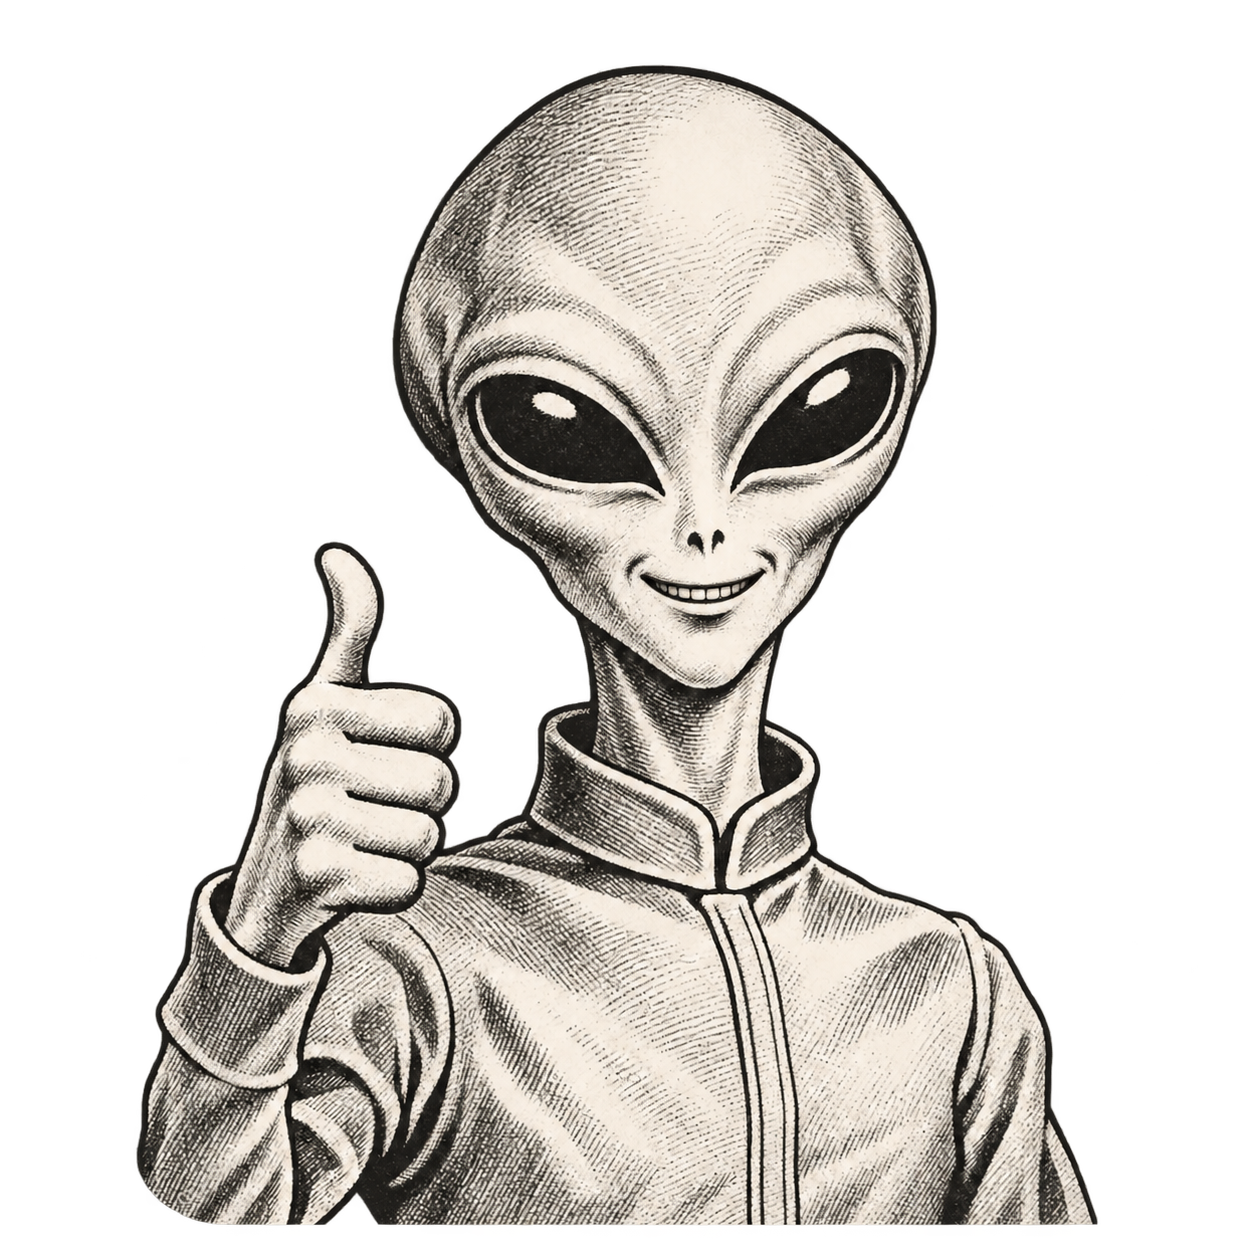
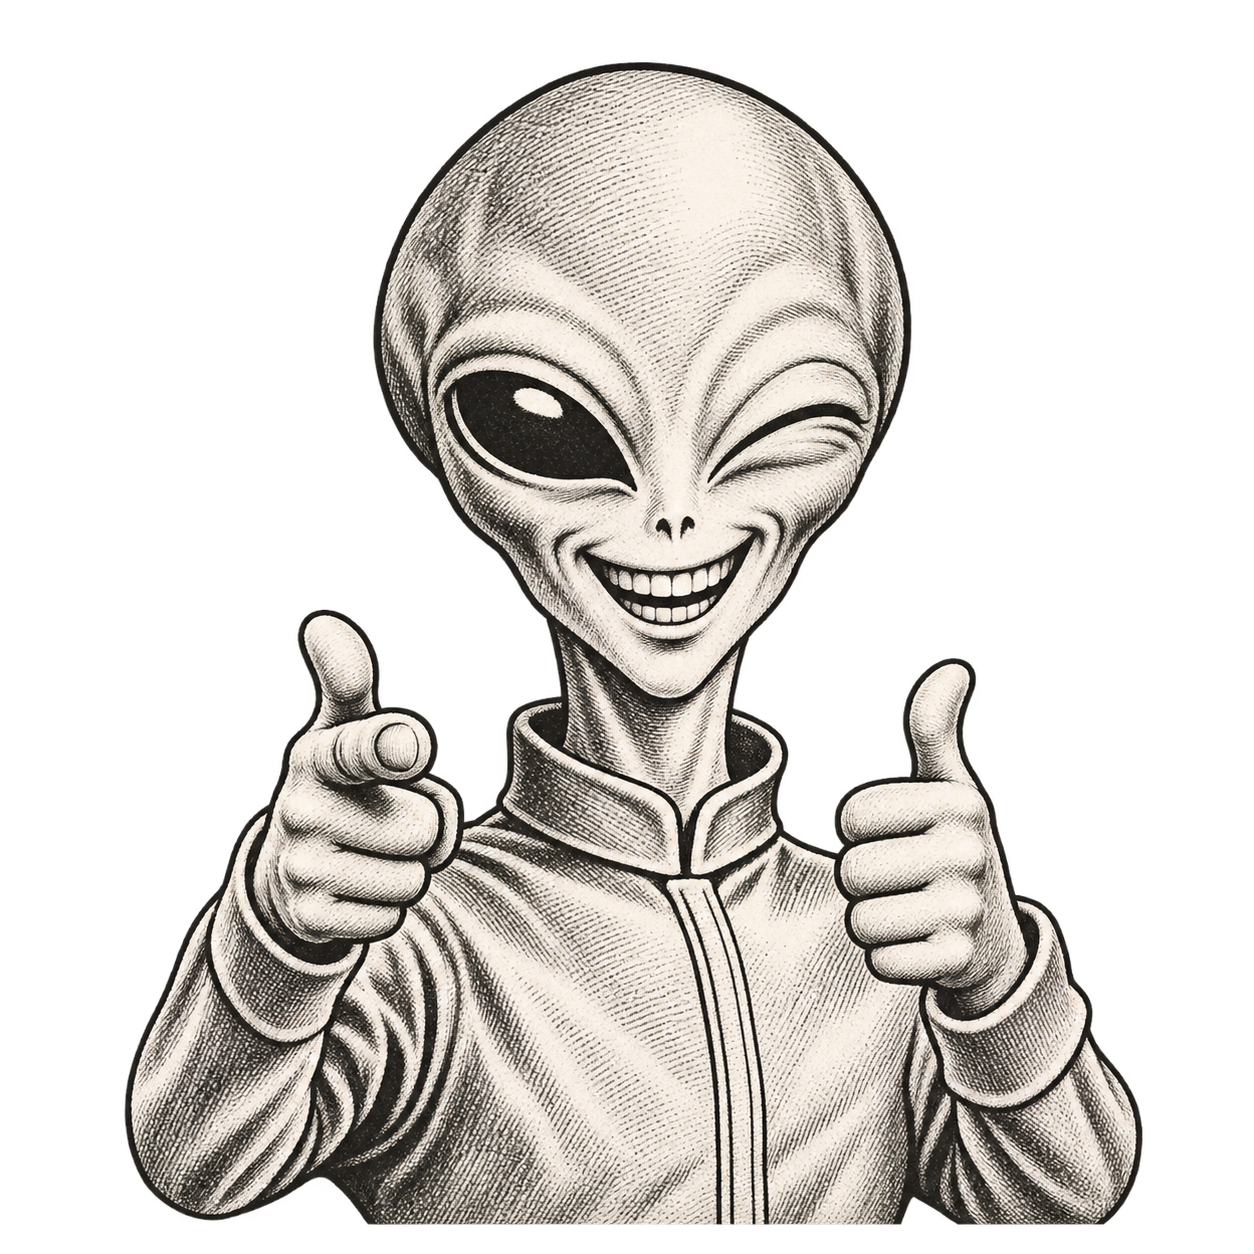
Use pointing and thumbs-up alien with right-back standby text

diff --git a/uap-lab/static/index.html b/uap-lab/static/index.html
@@ -1,4 +1,4 @@
-<!doctype html><html lang="en"><head><meta charset="utf-8"><meta name="viewport" content="width=device-width,initial-scale=1"><title>UAP Training Lab</title><link rel="stylesheet" href="/app-shell.css?v=3"><script src="/app-shell.js?v=5" defer></script><link rel="stylesheet" href="/style.css?v=no-signal-recording-1"></head><body class="live-mode">
+<!doctype html><html lang="en"><head><meta charset="utf-8"><meta name="viewport" content="width=device-width,initial-scale=1"><title>UAP Training Lab</title><link rel="stylesheet" href="/app-shell.css?v=3"><script src="/app-shell.js?v=5" defer></script><link rel="stylesheet" href="/style.css?v=right-back-1"></head><body class="live-mode">
 <header class="app-controls"><button id="menuToggle" class="icon-button" aria-label="Open navigation" aria-expanded="false" aria-controls="mainNav"><svg viewBox="0 0 24 24" aria-hidden="true" focusable="false"><path d="M3 6h18M3 12h18M3 18h18"/></svg></button><nav id="mainNav" aria-label="Main navigation" hidden><button id="liveTab" class="active">Camera</button><button id="labelTab">Review detections</button><button id="testTab">Test model</button><a href="/metrics">Metrics</a><a href="/training">Hourly training</a><a href="/tracks">Labeled objects</a></nav><button id="infoToggle" class="icon-button" aria-label="Open information" aria-expanded="false" aria-controls="infoPanel"><svg viewBox="0 0 24 24" aria-hidden="true" focusable="false"><path d="M12 10v8M10 18h4"/><circle cx="12" cy="6" r="1" fill="currentColor" stroke="none"/></svg></button><aside id="infoPanel" aria-label="Live information" hidden><h2>Live</h2><p>Original video is continuously buffered on the SSD. Motion candidates create provisional clips; they are not confirmed anomalies.</p><p id="publishStatus" class="muted" role="status" hidden></p><p>Capture-first mode: motion candidates save provisional evidence. They are not confirmed anomalies.</p><p>Native frames are processed in sequence, with backlog and missing frames reported below. Event windows request 10 seconds of context before and after motion; interruptions and shortened windows are recorded. Native-frame proposals are classified locally. Confirm or correct saved suggestions in labeling. Uncertain and failed results remain available for review. Model suggestions remain unconfirmed. Only anomalous sessions confirmed in the web UI are uploaded to Internet Archive, with raw and annotated video.</p><p id="recognitionStatus" class="muted" role="status">Local recognition starting…</p><p id="nativeAnalysisStatus" class="muted" role="status">Native analysis starting…</p><p class="muted">The session switch controls manual recording. Automatic provisional capture remains armed. RF power is shown in relative dB, not calibrated dBm.</p></aside></header>
 <main><div id="notice" role="status" aria-live="polite">Loading videos…</div>
 <section id="labelLibrary"><label for="labelSource">Review queue</label><select id="labelSource"><option value="all">All unreviewed videos</option><option value="recorded">Recorded clips</option><option value="model-detection">Model detections</option><option value="motion-collection">Motion collection</option><option value="imported">Imported videos</option></select><label for="labelVideo">Choose a video to label</label><select id="labelVideo"><option value="">Loading recordings…</option></select><p id="labelQueueStatus" class="muted" role="status"></p></section><div id="labelScreen"><div class="video-heading"><div><p id="queueProgress" class="muted"></p><h2 id="videoTitle">Your next video</h2></div><label class="upload">Add video<input type="file" id="upload" accept="video/*,.mkv,.mts" hidden></label></div><progress id="uploadProgress" max="100" value="0" hidden></progress>
@@ -11,10 +11,10 @@
 <details class="folder-info"><summary>Video folder</summary><p>Videos load automatically from <code>training-data</code> on the external SSD. Reviewed videos leave this queue.</p><p id="storage" class="muted"></p></details></div>
 <section id="doneScreen" hidden><h2 id="doneTitle">You're caught up</h2><p id="doneMessage">All available videos have been reviewed.</p><button id="done">Done</button></section>
 <section id="testScreen" hidden><h2>Test your saved model</h2><p id="model" class="muted">No saved model</p><select id="videos" aria-label="Video to test"></select><div class="row"><button id="test">Run test</button></div><details><summary>Test settings</summary><div class="row"><label>Find <select id="testLabel"></select></label><label>Match threshold <input id="threshold" type="number" min="0.5" max="0.9999" step="0.01" value="0.85"></label></div><p class="muted">This model learns selected appearances. Same-video tests check re-identification. Separate videos test generalization.</p></details><div id="runs"></div></section>
-<section id="liveScreen" aria-label="Live camera"><h1 class="sr-only">Live camera</h1><div id="liveViewer" class="viewer live-viewer"><div id="liveStage" class="live-stage"><canvas id="liveBoxes" aria-label="Live model tags"></canvas><img id="liveImage" alt="Live camera with model tags"></div><div id="noSignalCard" role="img" aria-label="No camera signal. Please stand by." hidden>
+<section id="liveScreen" aria-label="Live camera"><h1 class="sr-only">Live camera</h1><div id="liveViewer" class="viewer live-viewer"><div id="liveStage" class="live-stage"><canvas id="liveBoxes" aria-label="Live model tags"></canvas><img id="liveImage" alt="Live camera with model tags"></div><div id="noSignalCard" role="img" aria-label="Camera signal unavailable. We'll be right back." hidden>
 <div class="test-grid" aria-hidden="true"></div>
 <div class="test-bars test-bars-top" aria-hidden="true"></div><div class="test-bars test-bars-bottom" aria-hidden="true"></div>
 <div class="test-ring" aria-hidden="true"><span class="test-cross test-cross-h"></span><span class="test-cross test-cross-v"></span></div>
-<div class="test-message"><img class="test-emblem" src="/ufo-engraving.png?v=teeth-live-5" alt="" aria-hidden="true"><strong>NO SIGNAL</strong><span class="test-standby">PLEASE STAND BY</span></div>
+<div class="test-message"><img class="test-emblem" src="/ufo-engraving.png?v=buddy-6" alt="" aria-hidden="true"><strong>We'll be right back</strong><span class="test-standby">PLEASE STAND BY</span></div>
 <svg class="test-grain" aria-hidden="true" focusable="false" xmlns="http://www.w3.org/2000/svg"><defs><filter id="crt-grain"><feTurbulence type="fractalNoise" baseFrequency=".8" numOctaves="1" stitchTiles="stitch"/><feColorMatrix type="saturate" values="0"/><feComponentTransfer><feFuncA type="linear" slope="0" intercept="1"/></feComponentTransfer></filter></defs><rect width="100%" height="100%" filter="url(#crt-grain)"/></svg>
 </div><p id="liveStatus" class="live-health" data-state="connecting" role="status" aria-label="Live feed connecting"><span class="status-dot" aria-hidden="true"></span><span>Live</span></p><div id="rfOverlay" class="rf-overlay" aria-label="Live RF spectrum"><div class="session-control"><label id="sessionLabel" for="sessionToggle">Manual Recording</label><input id="sessionToggle" type="checkbox" role="switch" aria-label="Manual Recording" aria-describedby="sessionStatus" disabled><span id="sessionStatus" role="status"></span></div><div class="rf-heading"><span>RF spectrum</span><span id="rfStatus" role="status">Connecting…</span></div><canvas id="rfNarrow" width="600" height="140" role="img" aria-label="Narrow-band RF power spectrum"></canvas><canvas id="rfWide" width="600" height="140" role="img" aria-label="Wide-band RF power spectrum"></canvas></div></div></section></main><script src="/app.js?v=32"></script></body></html>

diff --git a/uap-lab/static/style.css b/uap-lab/static/style.css
@@ -71,7 +71,7 @@ button:focus-visible,input:focus-visible,select:focus-visible,a:focus-visible{ou
 .test-ring:before,.test-ring:after{content:"";position:absolute;border:2px solid #9bc98c;border-radius:50%;inset:8%}.test-ring:after{inset:18%}
 .test-cross{position:absolute;background:#9bc98c;left:50%;top:50%;transform:translate(-50%,-50%)}.test-cross-h{height:2px;width:100%}.test-cross-v{width:2px;height:100%}
 .test-message{position:relative;display:flex;flex-direction:column;align-items:center;text-align:center;width:100%;gap:3vmin;font-family:Arial,Helvetica,sans-serif}
-.test-message strong{display:block;box-sizing:border-box;width:100%;padding:2vmin 4vmin;background:#9bc98c;color:#08130d;font-size:clamp(32px,9vmin,100px);line-height:1.1;font-weight:700;letter-spacing:.12em;white-space:nowrap;border-block:1vmin solid #08130d}
+.test-message strong{display:block;box-sizing:border-box;width:100%;padding:2vmin 4vmin;background:#9bc98c;color:#08130d;font-size:clamp(20px,6vmin,72px);line-height:1.1;font-weight:700;letter-spacing:.04em;white-space:nowrap;border-block:1vmin solid #08130d}
 .test-standby{font-size:clamp(12px,2.2vmin,24px);letter-spacing:.2em;background:#08130d;padding:1vmin 2vmin}
 .test-message .test-emblem{display:block;position:relative;width:28vmin;height:28vmin;min-width:120px;min-height:120px;object-fit:contain;background:transparent;filter:grayscale(1) sepia(1) hue-rotate(45deg) saturate(1.2) brightness(.9);padding:0}
 .no-camera-signal .rf-overlay{background:#08130df2!important;color:#9bc98c!important;padding:12px;border:1px solid #9bc98c}

diff --git a/docs/no-signal-artwork.md b/docs/no-signal-artwork.md
@@ -23,3 +23,9 @@ The active emblem is the original smiling thumbs-up alien from commit c7dfc3b, r
 The previously previewed toothy version is now active, generated with the built-in imagegen tool by editing the restored smiling emblem. Layout, crop, and phosphor treatment remain unchanged.
 
 Edit prompt: Edit only the alien's mouth in this vintage engraved thumbs-up illustration. Change the existing closed smile to a modest open smile showing a narrow row of small, clearly defined teeth. Keep it restrained and slightly uncanny: not a huge cartoon grin, no fangs, no gums, no shiny realistic lips. Render the teeth and mouth with the exact same disciplined black ink and ivory highlights as the existing mid-century crosshatched engraving. Preserve the head shape, eyes, existing expression around the eyes, hand and thumbs-up, flight suit, entire body silhouette, exact pose, scale, crop, framing, and transparent background. Do not redesign the character. No new background, text, border, objects, or colors. The only change is the smile now showing teeth.
+
+## Active pointing-and-thumbs-up revision
+
+The active illustration uses the pointing-and-thumbs-up pose referenced by the user from [Buddy Christ](https://en.wikipedia.org/wiki/Buddy_Christ). The banner reads “We'll be right back”. Built-in imagegen edited the existing engraved alien with this prompt:
+
+Edit the supplied vintage engraved alien into a Buddy Christ-inspired reassuring pose: one hand gives a thumbs-up, the other points its index finger directly toward the viewer, with a visible raised thumb on the pointing hand. BOTH gestures must be clear and visible, one on each side of the chest. A broad friendly toothy smile and one playful wink, evoking the pointing-and-thumbs-up pose from Buddy Christ in Dogma, but retain this GREY ALIEN character, not a human or Jesus. Keep the elongated bald head, large almond eye, and plain retro high-collared flight suit. Maintain the exact mid-century black-ink crosshatched editorial engraving style with ivory highlights; transparent background, monochrome only. Chest-up composition, complete head and both complete hands, centered compact square silhouette suitable for the same central television test-pattern medallion. No extra arms or fingers. No robes, hair, beard, halo, religious symbols, text, border, scenery, background rectangle, test pattern, or colored pixels. Refined vintage public-information illustration, not glossy 3D. Change the pose/expression but preserve the established drawing style and general scale.
